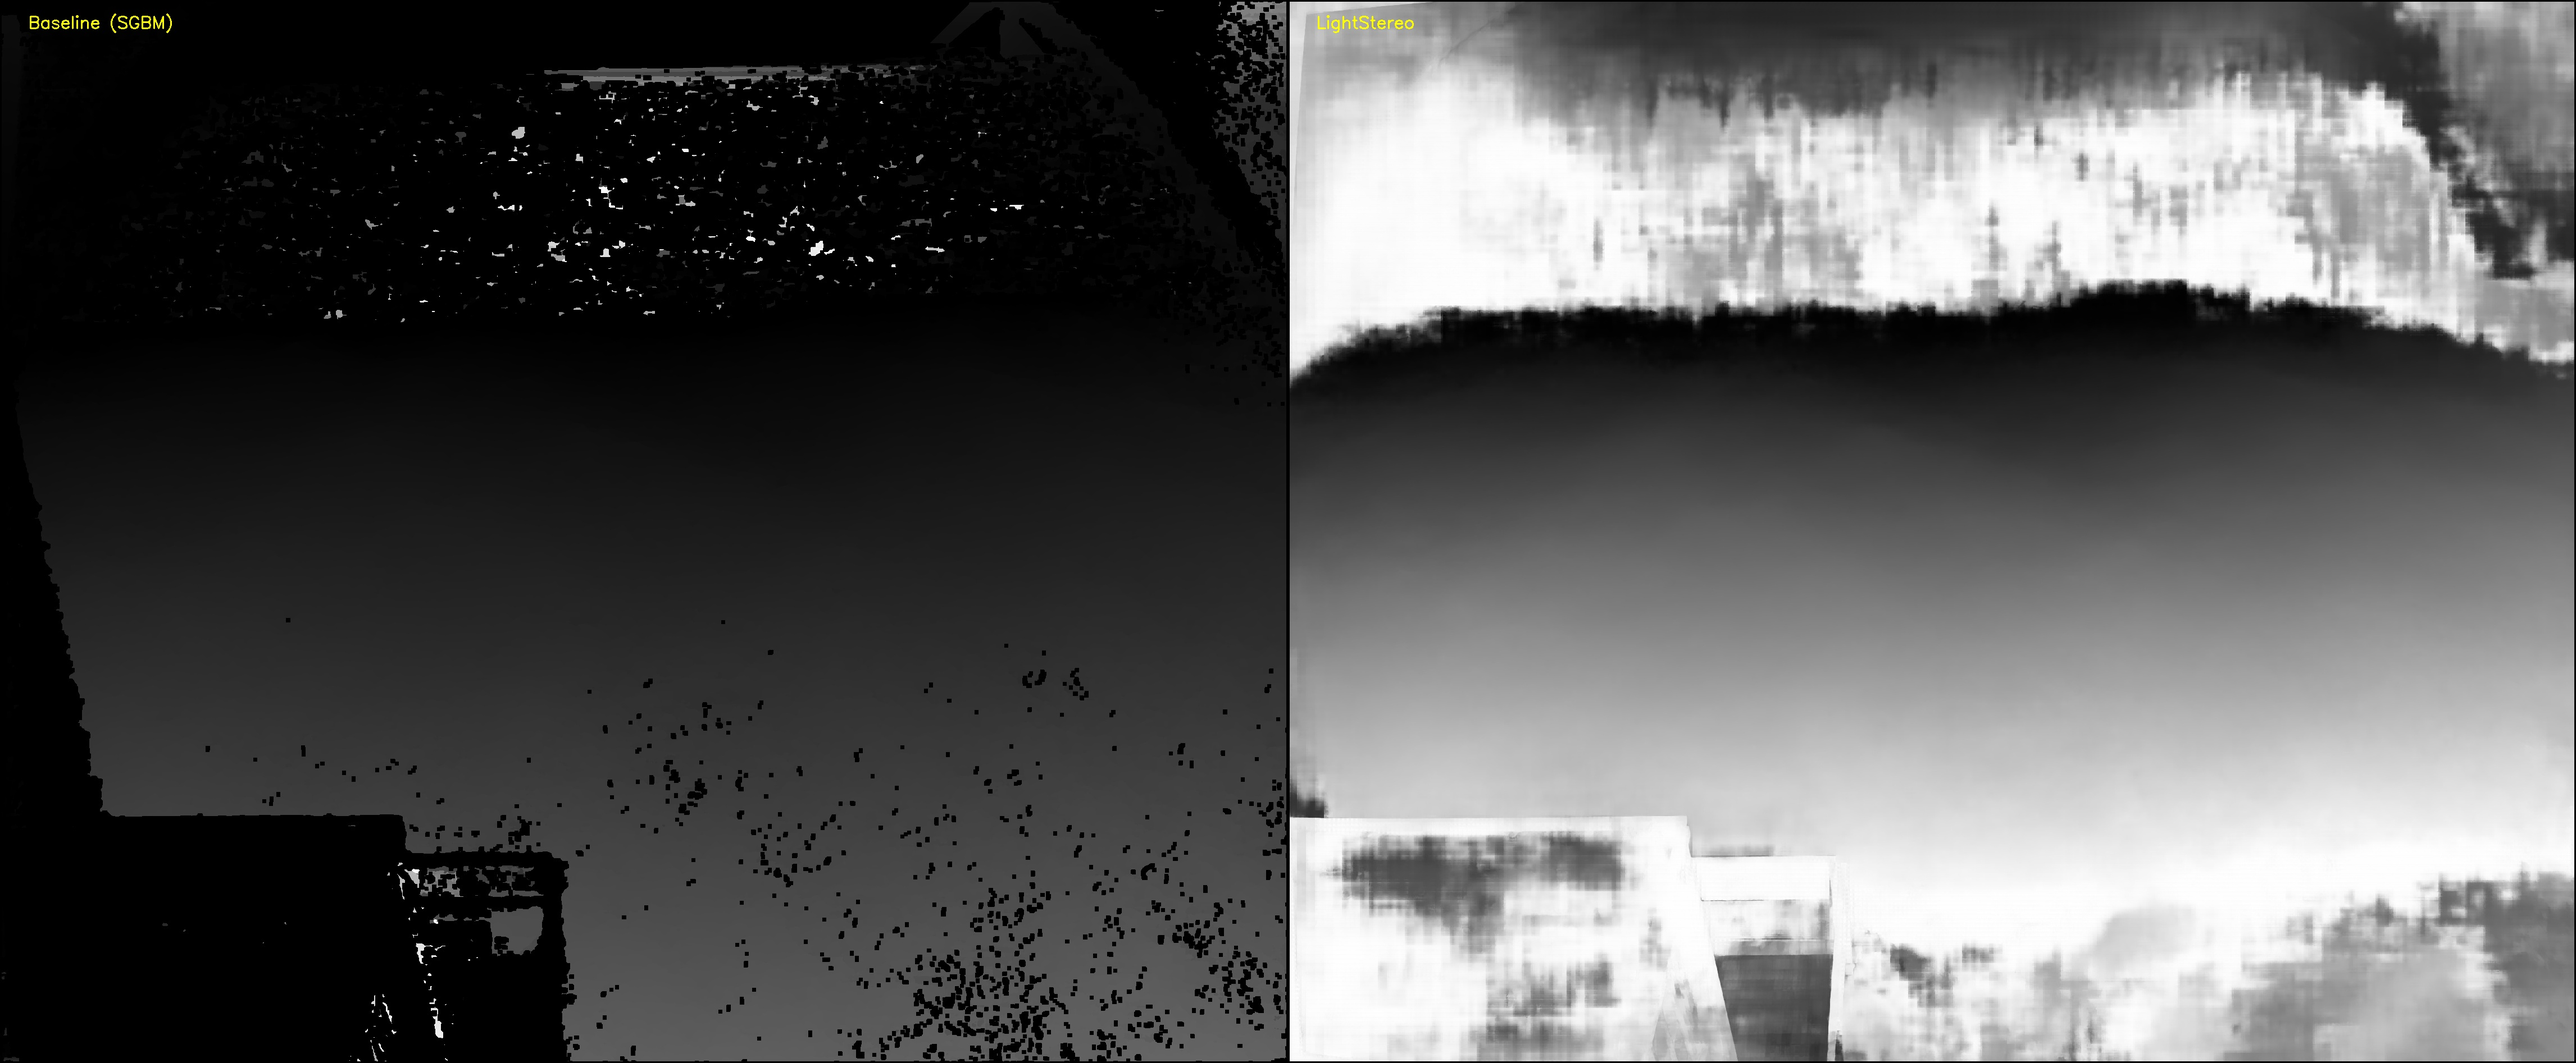
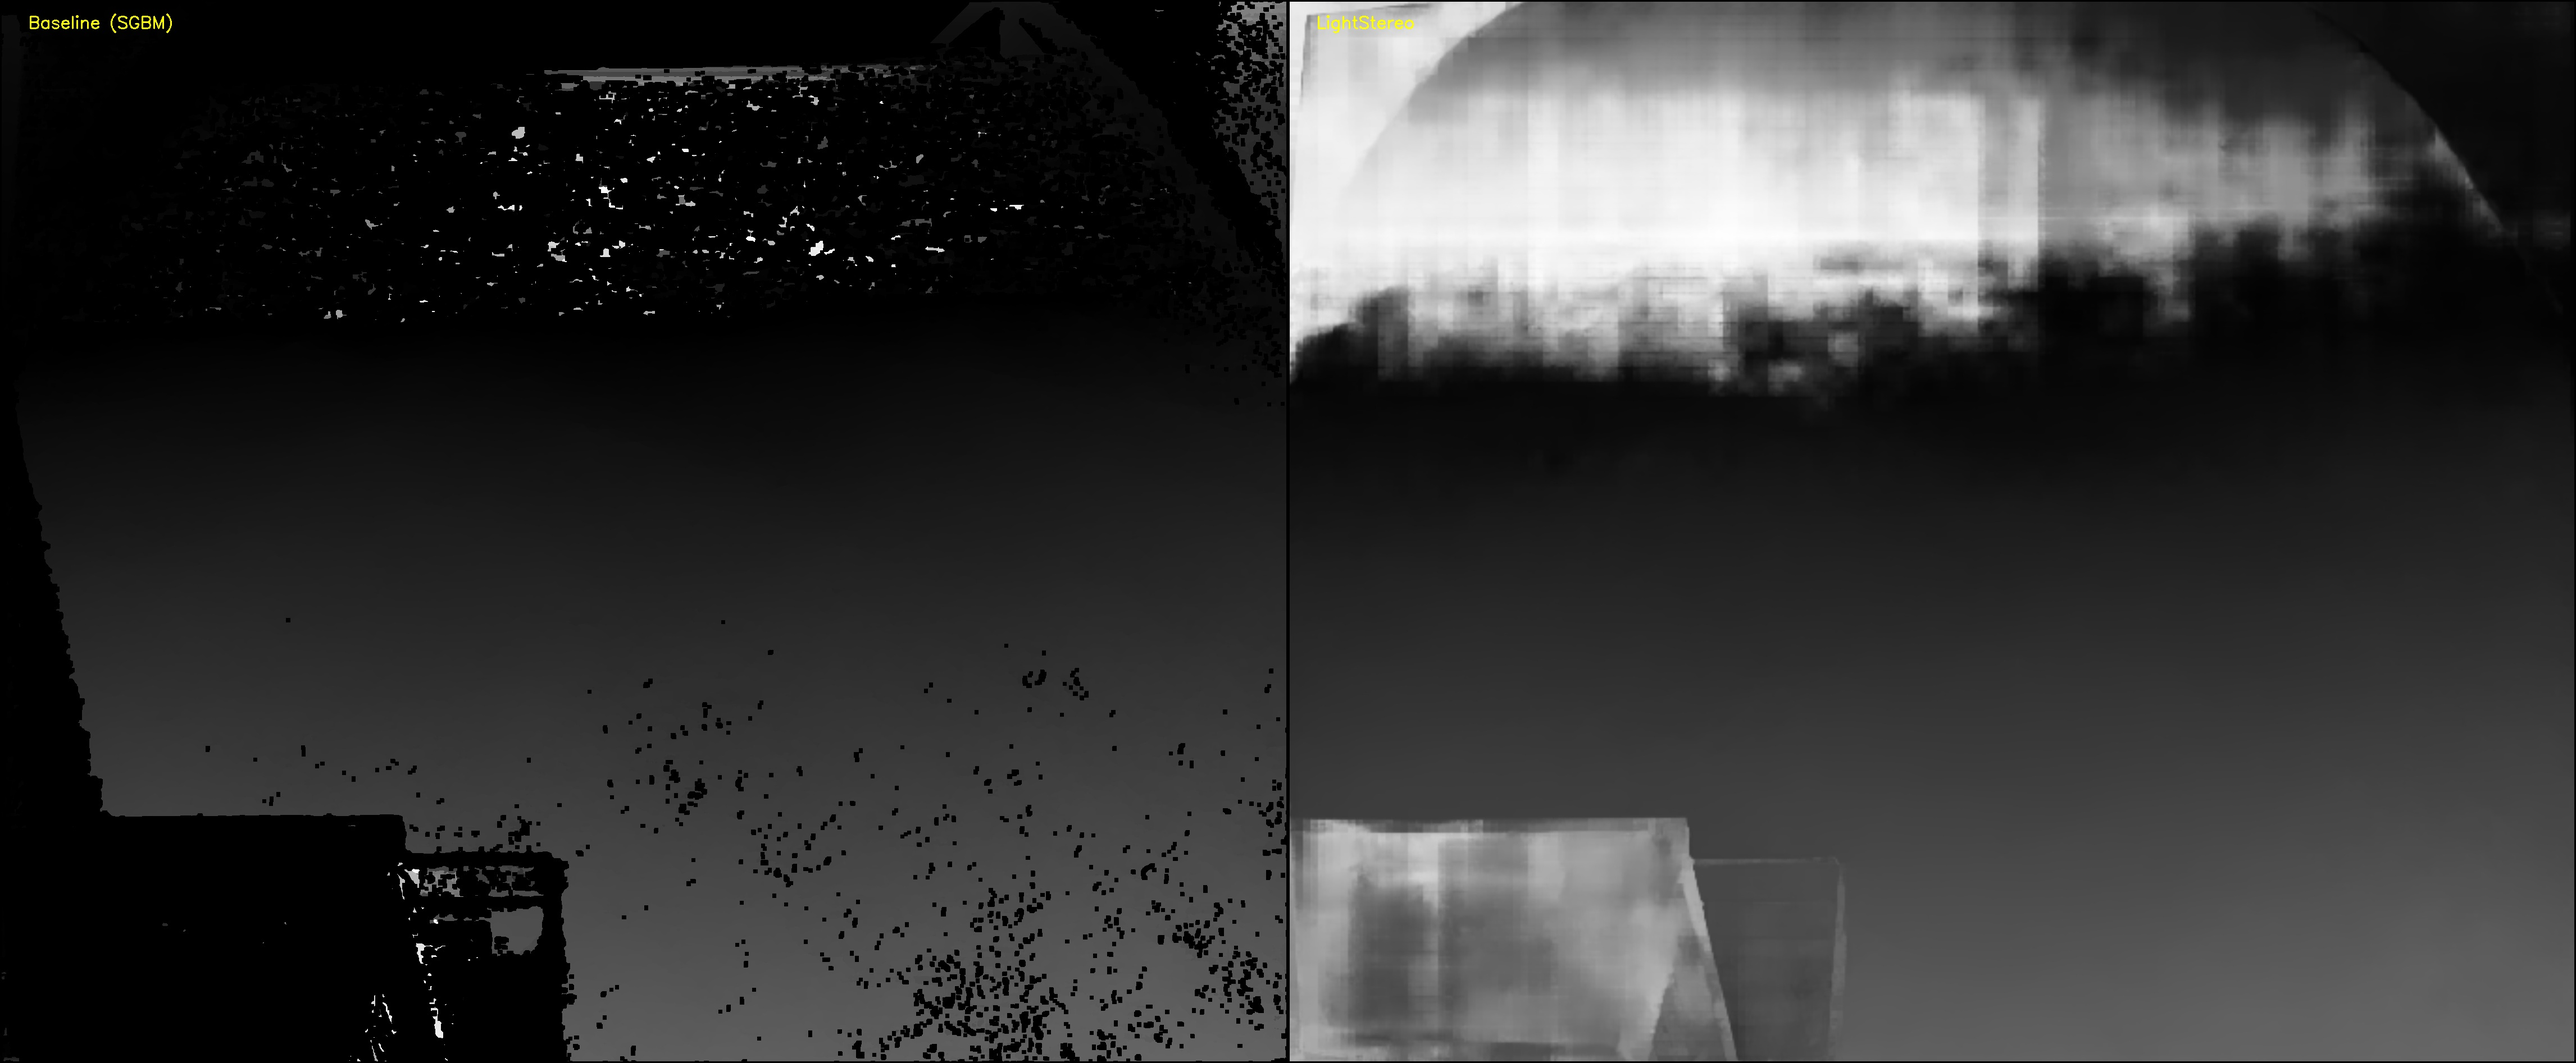
Replaced SGBM with LightStereo for WASS stereo matching
Integrated LightStereo deep learning model to replace OpenCV SGBM stereo matching.
- Modified `src/wass_stereo/wass_stereo.cpp` to export rectified images and import external disparity map.
- Added `run_lightstereo.py` to run LightStereo inference with image resizing to handle scale issues.
- Added `stereo/modeling` package with LightStereo implementation (model, backbone, cost volume, etc.).
- Updated `wass_stereo.cpp` to call the python script and use the result.

diff --git a/run_lightstereo.py b/run_lightstereo.py
@@ -26,10 +26,6 @@ def load_image(path):
 
 def prepare_input(img, device):
     # Normalize to [0, 1] and convert to tensor (1, C, H, W)
-    # Imagenet mean/std? The paper code usually uses mean/std normalization.
-    # OpenStereo datasets usually normalize with mean=[0.485, 0.456, 0.406], std=[0.229, 0.224, 0.225]
-    # I should verify this but it's standard for pretrained backbones (timm).
-
     img = img.astype(np.float32) / 255.0
 
     mean = np.array([0.485, 0.456, 0.406], dtype=np.float32)
@@ -41,7 +37,6 @@ def prepare_input(img, device):
 
 def pad_image(img, divisor=32):
     b, c, h, w = img.shape
-    # Calculate padding
     pad_h = (divisor - h % divisor) % divisor
     pad_w = (divisor - w % divisor) % divisor
 
@@ -62,28 +57,37 @@ def main():
     output_path = os.path.join(workdir, "external_disparity.tiff")
 
     print(f"Loading images from {workdir}")
-    # WASS needs Right view disparity.
-    # We use Right as Left (Ref) and Left as Right (Tgt) for the model.
-    # Model output will be disparity for Right image.
-    # x_L = x_R - d (LightStereo convention if Input L=Right, R=Left)
-    # WASS expects x_L = x_R - d?
-    # WASS code: float xl = xr - disp.
-    # So WASS expects disp > 0.
-    # And x_L = x_R - disp.
-    # So this matches perfectly.
-
     left_img_cv = load_image(left_path)
     right_img_cv = load_image(right_path)
+
+    orig_h, orig_w = left_img_cv.shape[:2]
+
+    # Calculate scale factor
+    # Target disparity capacity: ~640 px.
+    # Model max disp: 192 px.
+    # Scale <= 192 / 640 = 0.3
+    # Let's use a safe scale.
+    # Also ensure width is multiple of 32 if possible or padding handles it.
+
+    scale_factor = 0.3
+    new_w = int(orig_w * scale_factor)
+    new_h = int(orig_h * scale_factor)
+
+    print(f"Resizing input from {orig_w}x{orig_h} to {new_w}x{new_h} (Scale: {scale_factor})")
+
+    left_img_resized = cv2.resize(left_img_cv, (new_w, new_h), interpolation=cv2.INTER_AREA)
+    right_img_resized = cv2.resize(right_img_cv, (new_w, new_h), interpolation=cv2.INTER_AREA)
 
     device = torch.device("cuda" if torch.cuda.is_available() else "cpu")
     print(f"Using device: {device}")
 
-    ref_img = prepare_input(right_img_cv, device) # Right as Ref
-    tgt_img = prepare_input(left_img_cv, device) # Left as Target
+    # Swap Inputs for Right View Disparity
+    ref_img = prepare_input(right_img_resized, device)
+    tgt_img = prepare_input(left_img_resized, device)
 
     # Pad
     ref_img_padded, pad_h, pad_w = pad_image(ref_img)
-    tgt_img_padded, _, _ = pad_image(tgt_img) # Padding should be same
+    tgt_img_padded, _, _ = pad_image(tgt_img)
 
     # Load Model
     cfg = Config()
@@ -101,7 +105,6 @@ def main():
     if 'model' in state_dict:
          state_dict = state_dict['model']
 
-    # Remove 'module.' prefix if DDP was used
     new_state_dict = {}
     for k, v in state_dict.items():
         if k.startswith('module.'):
@@ -124,10 +127,17 @@ def main():
         w_orig = w_padded - pad_w
         disp_pred = disp_pred[:, :, :h_orig, :w_orig]
 
-        disp_np = disp_pred.squeeze().cpu().numpy()
+        # Upsample to original resolution
+        # Mode 'bilinear' needs 4D input
+        disp_upsampled = F.interpolate(disp_pred, size=(orig_h, orig_w), mode='bilinear', align_corners=False)
+
+        # Scale disparity values
+        # d_orig = d_small * (orig_w / new_w) = d_small / scale_factor
+        disp_upsampled = disp_upsampled / scale_factor
+
+        disp_np = disp_upsampled.squeeze().cpu().numpy()
 
     print(f"Saving disparity to {output_path}")
-    # Save as TIFF float32
     cv2.imwrite(output_path, disp_np)
     print("Done.")
 
